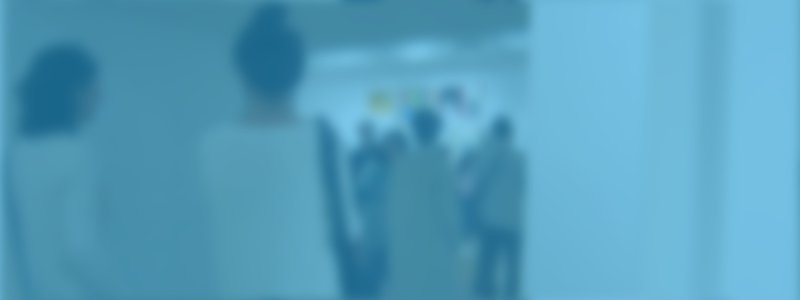
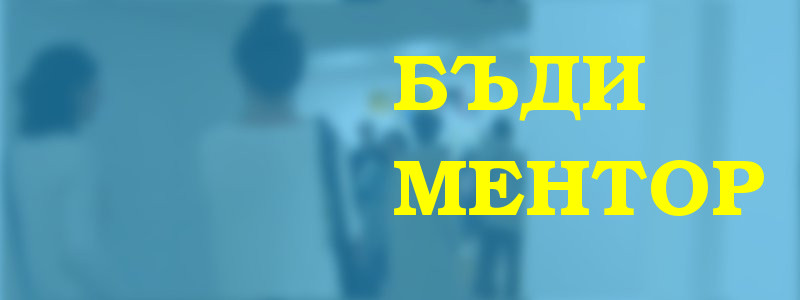
Add image for last article

Changed region(s): [[0.4688, 0.51, 0.9688, 0.72], [0.4688, 0.18, 0.8125, 0.42]]

diff --git a/statii/podkastove.html b/statii/podkastove.html
@@ -40,9 +40,9 @@
 					<img src="../images/podkastove.jpg" alt="Подкастове">
 					
 					<h3>Как да ги слушаме?</h3>
-					<p>Има общо взето три начина да слушате подкасти: единият е на уебсайта им; другият е да си ги свалите на компютъра, таблета или телефона; а третият- в някое специално пригодено приложение.</p>
-					<p>На сайта може да има директен плейър или вграден от soundcloud или youtube дори.</p>
-					<p>Ако ще използвате апове и сте фен на Apple, повечето подкастове са налични в itunes. Ако ли не- Google Play предлага разнообразие от подкастинг приложения, чиито функции варират от прост плейър, търсачки до рязане на секудните тишина. Лично аз пробвам Podcast Addict, засега успешно.</p>
+					<p>Има общо взето три начина да слушате подкасти: единият е на уебсайта им; другият е да си ги свалите на компютъра, таблета или телефона; а третият- в някое специално пригодено приложение (подкечър) като Stitcher.</p>
+					<p>На сайта им може да има директен плейър или вграден файл от soundcloud или youtube дори.</p>
+					<p>Ако ще използвате апове и сте фен на Apple, повечето подкастове са налични в itunes. Ако ли не- Google Play предлага разнообразие от подкастинг приложения, чиито функции варират от прост плейър, с търсачки до такива с функция рязане на секудните тишина. Лично аз пробвам Podcast Addict, засега успешно.</p>
 
 					
 					<h3>Англоезични подкасти</h3>
@@ -84,11 +84,15 @@
 
 					<h3>Български подкастове</h3>
 
-					<p>Има половин дузина български подкаста. Ето ги:</p>
+					<p>Има около дузина български подкаста. Ето ги:</p>
 					<p><a href="http://www.nerds2nerds.com/" target="_blank">Nerds2Nerds</a> обсъжда новини от света на IT, програмирането и всякакви модерни технологии.</p>
 					<p><a href="http://gamersvoiceshop.com/" target="_blank">Gamers' Voiceshop (GVS)</a> както личи от името му е посветено на видео игрите, записвано от автори на култовото българско гейминг списание от близкото минало Gamers' Workshop.</p>
 					<p><a href="http://techballoon.net/category/podcast/" target="_blank">TechBalloon</a>- в подкаста става дума за стрийминг, облака, мобилните комуникации и смартфоните.</p>
 					<p><a href="http://predpriemachite.com/" target="_blank">Предприемачите</a> говори за дигитален маркетинг, джаджи, набиране на финансови средства, какво и всякакви теми, свързани със започването на бизнес. За жалост последният епизод е от преди близо две години.</p>
+					<p><a href="https://soundcloud.com/thesuperhumanpodcast" target="_blank">Свръхчовекът с Георги Ненов</a> пак говори за успеха, но не само в бизнеса. Епизодите са повече от 50.</p>
+					<p><a href="http://wakeupandstartup.com/category/podcasts/" target="_blank">Wakeup and startup</a> всеки понеделник представя "нова вдъхновяваща история за успехите и провалите на най-добрите предприемачи на България".</p>
+					<p><a href="http://blog.ivodimitrov.pro/podcast/" target="_blank">НЛП подкаст с Иво Димитров</a> се занимава с пречките пред връзките и развиването на бизнес. Водещият се занимава с онлайн маркетинг.</p>
+					<p><a href="http://govori-internet.com/" target="_blank">Говори Ѝнтернет</a> е седмичен подкаст, където двама приятели- Владо и Еленко, бистрят разни теми- предимно от дигиталния свят.</p>
 					<p><a href="http://www.sharenasol.com/p/blog-page_24.html" target="_blank">Шарена сол</a> има само четири епизода, но в тях са засегнати разнообразни теми, вариращи от рецепти, мода и пътешествия до стартъпи и мотивация.</p>
 					<p><a href="http://operationkino.net/2015/03/inglourious-kunts-%D0%B5%D0%BF%D0%B8%D0%B7%D0%BE%D0%B4-i-%D0%BE%D1%81%D0%BA%D0%B0%D1%80%D0%B8-2015/" target="_blank">Inglourious Kunts</a> е видео подкаст за филми, продуциран от сайта Operation Kino. Освен Оскарите и новини от Холивуд, момчетата обсъждат и някои сериали като "Игра на тронове".</p>
 

diff --git a/statii/dobre-spraviane.html b/statii/dobre-spraviane.html
@@ -31,20 +31,23 @@
 			<article>
 				<h1>Горе главата! Ето как да разберете колко добре се справяте</h1>
 				<div class = "text">
-					<!-- <img src="../images/biznes-model.jpg" alt="Платно за бизнес модел"> -->
 					<h3>Как сме сигурни, че дадено познание е овладяно?</h3>
 
-					<p>Има два вида познание: активно (recall) и пасивно (recognition). Първото е когато разпознавате и можете да говорите по темата без помощни материали; второто е когато можете да отличите факт от лъжа, когато ви се представи някаква информация, която сте срещали преди.</p>
+					<p>Има два вида познание: активно (recall) и пасивно (recognition).</p>
+					<p>Първото е когато разпознавате и можете да говорите по темата без помощни материали; второто е когато можете да отличите факт от лъжа, когато ви се представи някаква информация, която сте срещали преди.</p>
 
 					<p>Лесно ще илюстрираме разликата, ако се замислим за ученето на езици: лингвистите често имат майсторство- познават доста думи (включително етимологията им) и граматиката, дори може да разбират речта на говорящия, но да не могат да поддържат разговор; има и хора, които съвсем не са експерти, но с ограничен речник успяват да постигнат плавност в диалог със събеседника си.</p>
 
 					<p>Изненадващо е колко може да постигнем стига да овладеем най- често срещаните фрази или еквивалентната единица в дисциплината, която ни интересува.</p>
+					
+					<img src="../images/dobre-spraviane.png" alt="Горе главата! Ето как да разберете колко добре се справяте">
 
 					<p>Става ясно, че не е нужно да имаш всички градивни елементи, за да се оправяме в ежедневието.</p>
 					<p>А също и че има различни начини да си добър в това, което правиш.</p>
 					<p>Ако не знаеш какво да кажеш, кажи че не си способен да изпълниш исканото в момента... и обясни: какви допълнителни информация или инструменти ще ти трябват, за да се справиш. Кой знае какво прозрение ще получиш, ако го кажеш на глас.</p>
 					<p>Ако не знаеш какво да кажеш, кажи какви допълнителни данни са ти нужни, за да формираш преценката си. Прибързаните решения може да са по- вредни от честността.</p>
-					<p>Ако си пропуснал шанса си, опитай пак. Ако оставиш това да е единственият ти опит, това ще е единственият ти провал...но също единствената ти пътека към успеха, което те поставя под огромно напрежение. Позволете си повече шансове.</p>
+					<p>Ако си пропуснал шанса си, опитай пак. Ако оставиш това да е единственият ти опит, това ще е единственият ти провал...но също единствената ти пътека към успеха, което те поставя под огромно напрежение.</p>
+					<p>Позволете си повече шансове.</p>
 
 
 					<h3>Как сме сигурни, че дадено умение е овладяно?</h3>
@@ -88,6 +91,7 @@
 					Колкото по- рано сме овладяли нещо, толкова повече време ще се ползваме от предимствата, които носи.</p>
 
 					<p>Така че в началото на кариерата си, търсете предизвикателства!</p>
+					<p>И не забравяйте да следите прогреса си, за да не се обезкуражавате.</p>
 
 					<!-- <p><i>За да се запознаете с многообразието от бизнес модели, както и други рамки, които ви помагат да установите и развивате бизнеса си, вижте обучението по <a href="../obuchenia/obuchenie-rabotno-miasto.html">Бизнес модели и бизнес планове</a>.</i></p> -->
 				</div>

diff --git a/index.html b/index.html
@@ -56,10 +56,10 @@
 			<div class="posledno">
 				<article class="blog showit">
 					<h4><b>ПОСЛЕДНА СТАТИЯ</b></h4>
-					<h1><a href="statii/prouchvane-internet.html" class="title">Проучване по интернет за есе, блог или маркетинг</a></h1>
+					<h1><a href="statii/dobre-spraviane.html" class="title">Горе главата! Ето как да разберете колко добре се справяте</a></h1>
 				<div class = "text">
-					<a href="statii/prouchvane-internet.html" class="bezcvet"><img src="images/tursene-pinterest.png" alt="Търсене в Pinterest"></a>
-					<p>На всеки се налага да направи проучване по някоя или друга тема. <a href="statii/prouchvane-internet.html">Ето къде да търсите.</a></p>
+					<a href="statii/dobre-spraviane.html" class="bezcvet"><img src="images/dobre-spraviane.png" alt="Горе главата! Ето как да разберете колко добре се справяте"></a>
+					<p>Как сме сигурни, че дадено познание е овладяно? Как сме сигурни, че дадено умение е овладяно? <a href="statii/dobre-spraviane.html">Върнете си увереността и ентусиазма за учене.</a></p>
 				</div>
 				</article>
 

diff --git a/statii.html b/statii.html
@@ -31,6 +31,15 @@
 
 			
 			<article>
+				<h1><a href="statii/dobre-spraviane.html" class="title">Горе главата! Ето как да разберете колко добре се справяте</a></h1>
+				<div class = "text">
+					<a href="statii/dobre-spraviane.html" class="bezcvet"><img src="images/dobre-spraviane.png" alt="Горе главата! Ето как да разберете колко добре се справяте"></a>
+					<p>Как сме сигурни, че дадено познание е овладяно? Как сме сигурни, че дадено умение е овладяно? <a href="statii/dobre-spraviane.html">Върнете си увереността и ентусиазма за учене.</a></p>
+				</div>
+			</article>
+
+
+			<article>
 				<h1><a href="statii/prouchvane-internet.html" class="title">Проучване по интернет за есе, блог или маркетинг</a></h1>
 				<div class = "text">
 					<a href="statii/prouchvane-internet.html" class="bezcvet"><img src="images/tursene-pinterest.png" alt="Търсене с pinterest"></a>
